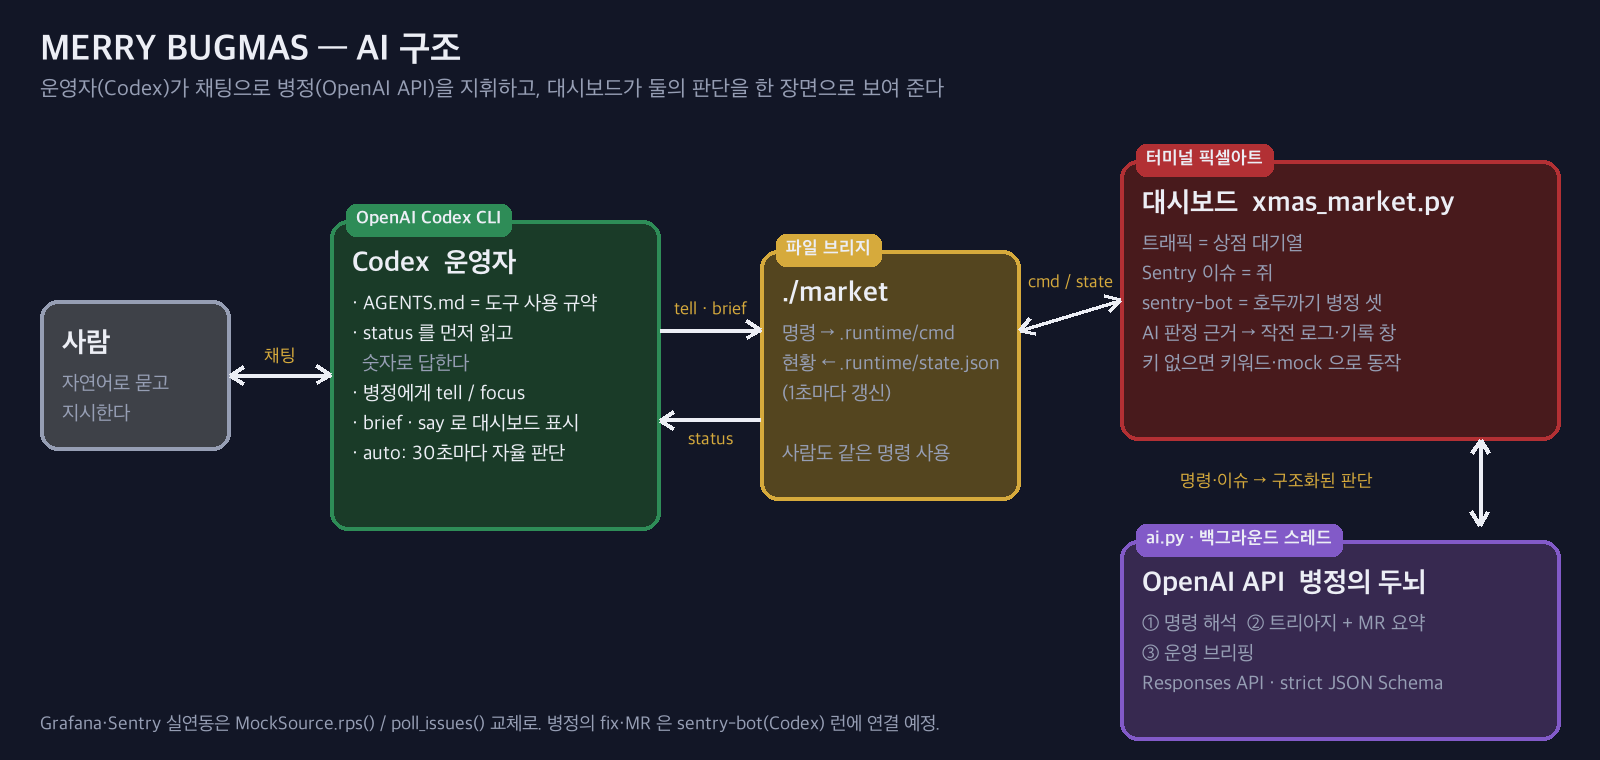
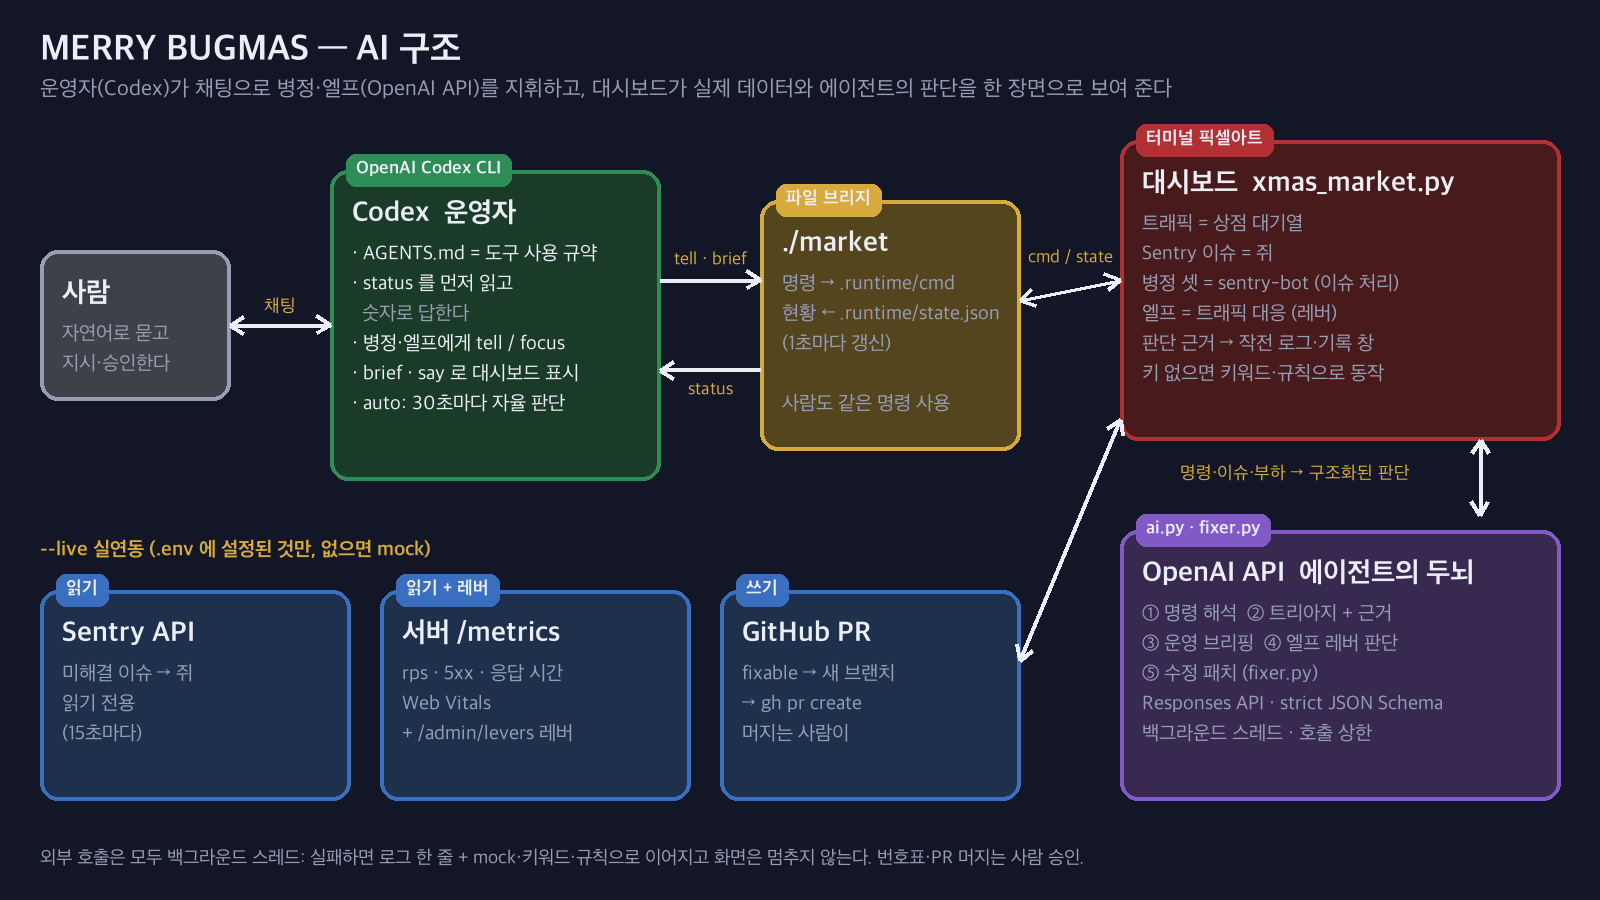
docs: 제출 초안 내용 보완 (PR #4·WEB-J 판정 변화, fixer 패치, Ⅸ·Ⅹ 초안) + 구조도에 엘프·실연동

diff --git a/tools/diagram.py b/tools/diagram.py
@@ -12,7 +12,7 @@ ROOT = os.path.dirname(os.path.dirname(os.path.abspath(__file__)))
 OUT = os.path.join(ROOT, "docs", "images", "architecture.png")
 FONT = "/System/Library/Fonts/AppleSDGothicNeo.ttc"
 
-W, H = 1600, 760
+W, H = 1600, 900
 BG = (18, 22, 38)
 INK = (236, 238, 245)
 DIM = (150, 158, 180)
@@ -55,30 +55,37 @@ def arrow(x1, y1, x2, y2, color=INK, label=None, both=False, dy=-30):
 
 
 d.text((40, 28), "MERRY BUGMAS — AI 구조", font=f(36, True), fill=INK)
-d.text((40, 76), "운영자(Codex)가 채팅으로 병정(OpenAI API)을 지휘하고, 대시보드가 둘의 판단을 한 장면으로 보여 준다",
+d.text((40, 76), "운영자(Codex)가 채팅으로 병정·엘프(OpenAI API)를 지휘하고, 대시보드가 실제 데이터와 에이전트의 판단을 한 장면으로 보여 준다",
        font=f(22), fill=DIM)
 
-user = box(40, 300, 190, 150, DIM, "사람", ["자연어로 묻고", "지시한다"])
-codex = box(330, 220, 330, 310, GREEN, "Codex  운영자", [
-    "· AGENTS.md = 도구 사용 규약", "· status 를 먼저 읽고", "  숫자로 답한다", "· 병정에게 tell / focus",
+user = box(40, 250, 190, 150, DIM, "사람", ["자연어로 묻고", "지시·승인한다"])
+codex = box(330, 170, 330, 310, GREEN, "Codex  운영자", [
+    "· AGENTS.md = 도구 사용 규약", "· status 를 먼저 읽고", "  숫자로 답한다", "· 병정·엘프에게 tell / focus",
     "· brief · say 로 대시보드 표시", "· auto: 30초마다 자율 판단"], tag="OpenAI Codex CLI")
-bridge = box(760, 250, 260, 250, GOLD, "./market", [
+bridge = box(760, 200, 260, 250, GOLD, "./market", [
     "명령 → .runtime/cmd", "현황 ← .runtime/state.json", "(1초마다 갱신)", "", "사람도 같은 명령 사용"],
     tag="파일 브리지")
-dash = box(1120, 160, 440, 280, RED, "대시보드  xmas_market.py", [
-    "트래픽 = 상점 대기열", "Sentry 이슈 = 쥐", "sentry-bot = 호두까기 병정 셋",
-    "AI 판정 근거 → 작전 로그·기록 창", "키 없으면 키워드·mock 으로 동작"], tag="터미널 픽셀아트")
-oai = box(1120, 540, 440, 200, PURPLE, "OpenAI API  병정의 두뇌", [
-    "① 명령 해석  ② 트리아지 + MR 요약", "③ 운영 브리핑", "Responses API · strict JSON Schema"],
-    tag="ai.py · 백그라운드 스레드")
+dash = box(1120, 140, 440, 300, RED, "대시보드  xmas_market.py", [
+    "트래픽 = 상점 대기열", "Sentry 이슈 = 쥐", "병정 셋 = sentry-bot (이슈 처리)",
+    "엘프 = 트래픽 대응 (레버)", "판단 근거 → 작전 로그·기록 창", "키 없으면 키워드·규칙으로 동작"], tag="터미널 픽셀아트")
+oai = box(1120, 530, 440, 270, PURPLE, "OpenAI API  에이전트의 두뇌", [
+    "① 명령 해석  ② 트리아지 + 근거", "③ 운영 브리핑  ④ 엘프 레버 판단", "⑤ 수정 패치 (fixer.py)",
+    "Responses API · strict JSON Schema", "백그라운드 스레드 · 호출 상한"],
+    tag="ai.py · fixer.py")
 
-arrow(230, 375, 330, 375, label="채팅", both=True)
-arrow(660, 330, 760, 330, label="tell · brief", dy=-32)
-arrow(760, 420, 660, 420, label="status", dy=8)
-arrow(1020, 330, 1120, 300, both=True, label="cmd / state", dy=-44)
-arrow(1480, 440, 1480, 525, both=True)
-d.text((1180, 470), "명령·이슈 → 구조화된 판단", font=f(18), fill=GOLD)
-d.text((40, 712), "Grafana·Sentry 실연동은 MockSource.rps() / poll_issues() 교체로. 병정의 fix·MR 은 sentry-bot(Codex) 런에 연결 예정.",
+d.text((40, 538), "--live 실연동 (.env 에 설정된 것만, 없으면 mock)", font=f(20, True), fill=GOLD)
+box(40, 590, 310, 210, BLUE, "Sentry API", ["미해결 이슈 → 쥐", "읽기 전용", "(15초마다)"], tag="읽기")
+box(380, 590, 310, 210, BLUE, "서버 /metrics", ["rps · 5xx · 응답 시간", "Web Vitals", "+ /admin/levers 레버"], tag="읽기 + 레버")
+box(720, 590, 300, 210, BLUE, "GitHub PR", ["fixable → 새 브랜치", "→ gh pr create", "머지는 사람이"], tag="쓰기")
+
+arrow(230, 325, 330, 325, label="채팅", both=True)
+arrow(660, 280, 760, 280, label="tell · brief", dy=-32)
+arrow(760, 370, 660, 370, label="status", dy=8)
+arrow(1020, 300, 1120, 280, both=True, label="cmd / state", dy=-44)
+arrow(1480, 440, 1480, 515, both=True)
+d.text((1180, 462), "명령·이슈·부하 → 구조화된 판단", font=f(18), fill=GOLD)
+arrow(1020, 660, 1120, 420, both=True)
+d.text((40, 846), "외부 호출은 모두 백그라운드 스레드: 실패하면 로그 한 줄 + mock·키워드·규칙으로 이어지고 화면은 멈추지 않는다. 번호표·PR 머지는 사람 승인.",
        font=f(19), fill=DIM)
 
 os.makedirs(os.path.dirname(OUT), exist_ok=True)

diff --git a/README.md b/README.md
@@ -245,6 +245,8 @@ fixable 판정 → OpenAI 가 레포 소스(XMAS_FIX_FILES, 기본 app.js·serve
 [#2](https://github.com/merrybugmas/demo-web/pull/2) 선물 목록 items 확인,
 [#3](https://github.com/merrybugmas/demo-web/pull/3) 배송일 Invalid Date 방지. 셋 다 에러가 난 줄만 고친 1~3줄 수정이다.
 나머지는 백엔드 5xx 2건·HTML 을 JSON 으로 읽는 에러 1건을 사람에게, 광고 스크립트 1건을 noise 로 보냈다. OpenAI 호출 10회, 실패 0.
+#1~#3 은 다음 시연을 위해 닫았다(머지 안 함). 이후 실행에서는 앞서 사람에게 넘겼던 HTML→JSON 파싱 에러(WEB-J)를 fixable 로 판정해
+[#4](https://github.com/merrybugmas/demo-web/pull/4) (`/api/notice` 응답이 HTML 일 때 JSON.parse 방어)를 열었다. 같은 이슈도 실행마다 판정이 달라질 수 있어, PR 은 열기만 하고 머지는 사람이 한다.
 
 ### 병정에게 묻기
 AI 가 켜져 있으면 병정이 질문에도 답한다. 명령 해석에 최근 처리 기록 15건과 누적 통계를 같이 넘긴다.
